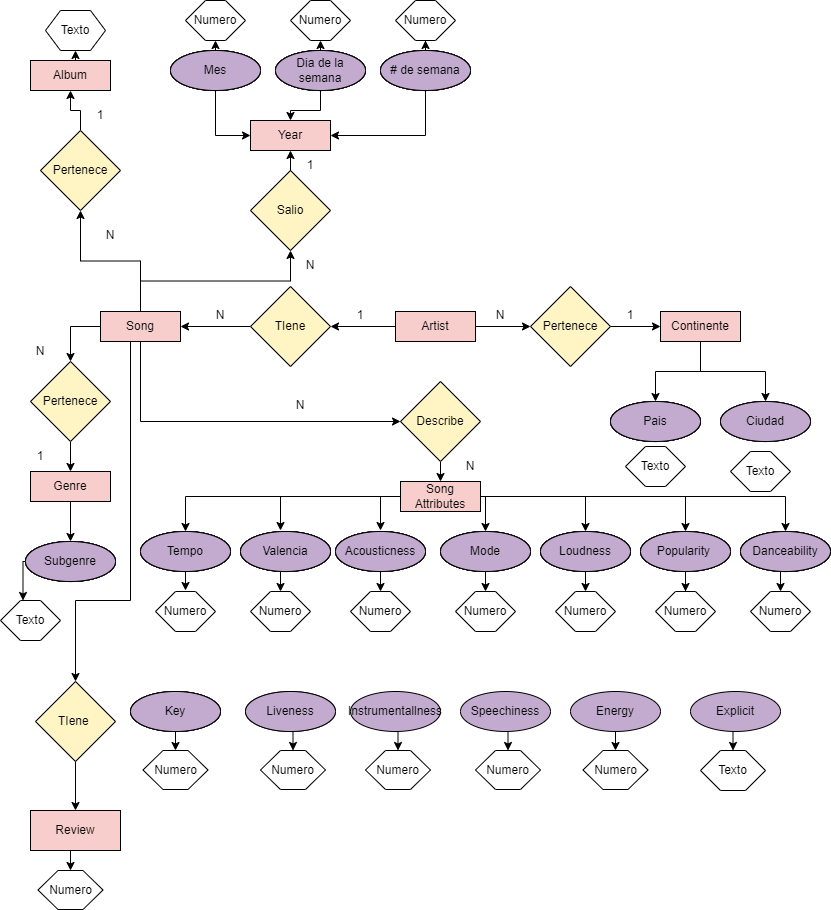
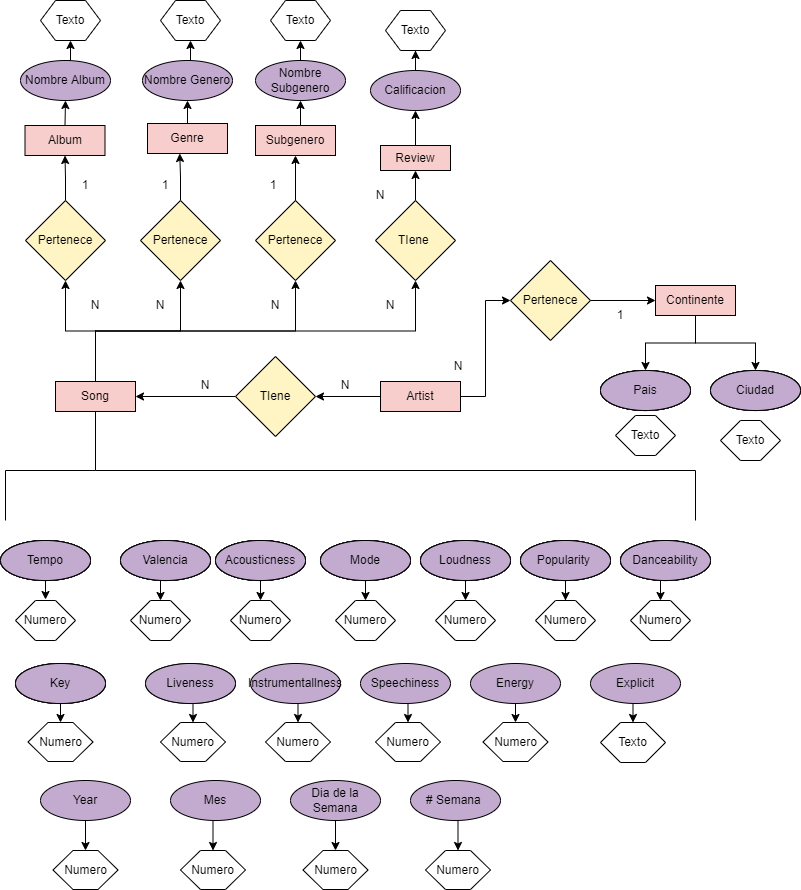
SubirTarea3Terminada

Changed region(s): [[0.0, 0.0, 1.0, 1.0]]

diff --git a/Tarea3_JARR.md b/Tarea3_JARR.md
@@ -1,0 +1,70 @@
+# Bases de Datos Relacionales 
+#### Nombre: Joel Alejandro Rodarte Rivera  
+#### Matricula: 2173260
+#### Fecha: 25/09/2022
+<br/>
+
+# Tarea 3
+<br/>
+
+La tarea 3 tiene como objetivo:
+* Crear un modelo de esquema relacional basado en el modelo e-r de la clase anterior
+* Hacer un diagrama relacional del punto anteior
+* Plantear 4 operaciones expresadas mediante operadores del algebra relacional. Explicar que es lo que realizan tales operaciones 
+
+<br/>
+
+**Esquema**
+
+<br/>
+
+Artist( <ins>id_Artist</ins> , name)
+ 
+Continente( <ins>id</ins> ,continente, pais ,cidudad ,id_Artist)
+
+Song(<ins>id_song_</ins> , name ,Tempo ,Valencia ,Acousticness ,Mode , Loudness ,Popularity ,Danceability ,Key , Liveness , Instrumentallness ,Speechiness ,Energy ,Explicit ,Year ,Mes ,Dia de la semana , # Semana)
+
+Artist_Song(<ins>id_Artist</ins> ,id_song)
+
+Album( <ins>id</ins>,nombre,id_song)
+
+Genre( <ins>id</ins>,nombre,id_song) 
+
+Subgenre( <ins>id</ins>,nombre,id_song)
+
+Review(<ins>id</ins>,calificacion,id_song)
+
+<br/>
+
+**Diagrama Relacional**
+
+<br/>
+
+![Modelo Relacional ](Tarea3_ModeloRelacional.png)
+
+<br/>
+
+**Operaciones**
+
+<br/>
+
+1. Extraer canciones que duren mas de 3 minutos
+
+2. Extraer canciones que hayan sido lanzadas despues de 2008 (lazanmiento de SPotify)
+
+3. Canciones que pertenezcan a artistas que sean de America y sean del 2010 en adelante 
+
+4. Canciones que sean bailables (>.5 Danceability) y que tengan valor bajo de Speechiness (<.5 speechiness).
+
+<br/>
+
+![Operaciones Algebraicas ](Tarea3_OperacioneAlgebraicas.png)
+
+
+Dudas al 25/09/2022: 
+
+1. Para las entidades que solo tienen un atributo en el modelo entidad relacion seria solo poner su id y su nombre? o solo un id
+Ejemplo: Album (id, nombre) o Album(id)
+Lo mismo sucede con artist, genre, subgenre,review
+2. En continente necesito un ATRIBUTO que se llame continente? 
+3. Cuando SI tengo que crear una tabla extra en mucho a muchos. Cuando en la tabla de mucho a mucho tambien tengo atributos unicos para esa nueva tabla? 
